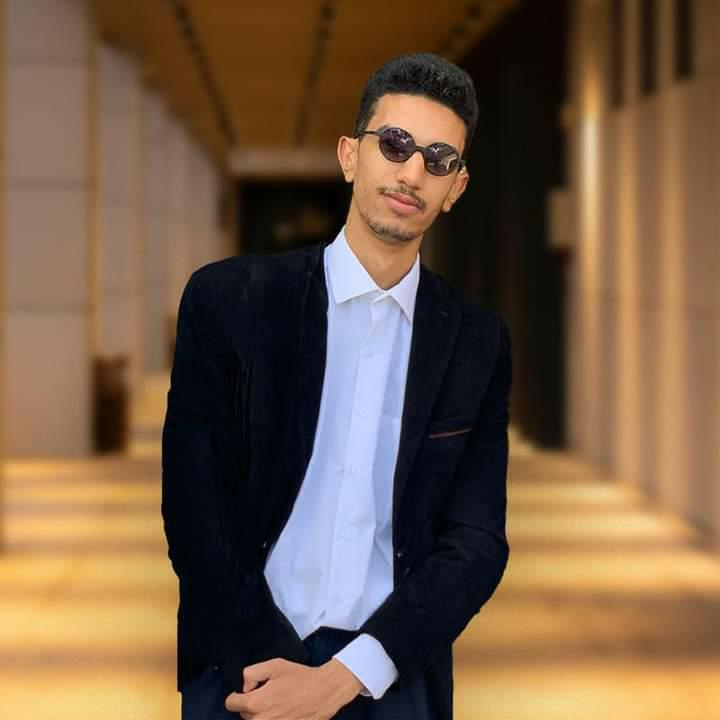
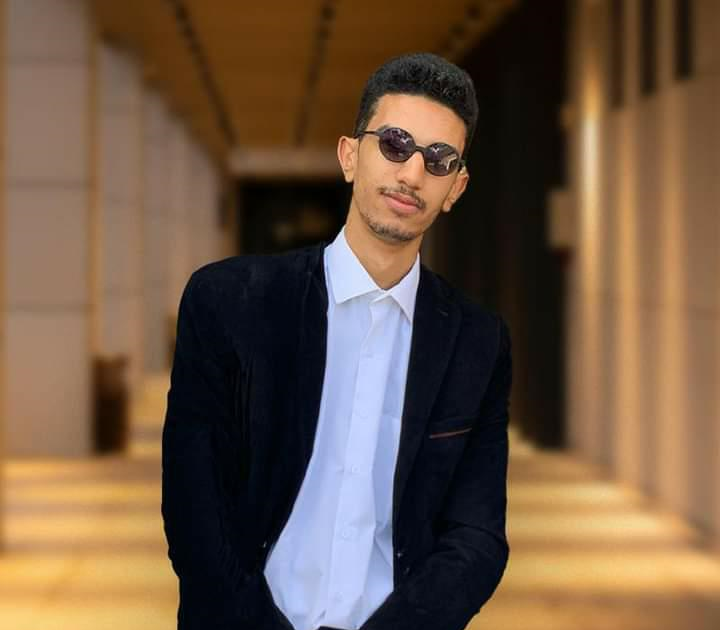
Update

diff --git a/index.html b/index.html
@@ -39,13 +39,14 @@
 
         <div class="preloader-heading">
             <div class="load-text">
-                <span>L</span>
-                <span>o</span>
+              
+                <span>E</span>
+                <span>l</span>
                 <span>a</span>
-                <span>d</span>
+                <span>z</span>
                 <span>i</span>
-                <span>n</span>
-                <span>g</span>
+                <span>z</span>
+            
             </div>
         </div>
     </div>
@@ -174,7 +175,7 @@
                             </h1>
 
                             <div class="hero-image-box d-md-none text-center wow fadeInRight" data-wow-delay="1.3s">
-                                <img src="assets/img/hero/me.png" alt="">
+                                <img src="assets/img/hero/IsmailElaziz.jpg" alt="">
                             </div>
 
                             <p class="lead wow fadeInLeft" data-wow-delay="1.4s">I break down complex user experinece
@@ -193,7 +194,7 @@
                     </div>
                     <div class="col-md-6 d-none d-md-block">
                         <div class="hero-image-box text-center wow fadeInRight" data-wow-delay="1.5s">
-                            <img src="assets/img/hero/me.png" alt="">
+                            <img src="assets/img/hero/IsmailElaziz.jpg" alt="">
                         </div>
                     </div>
                 </div>
